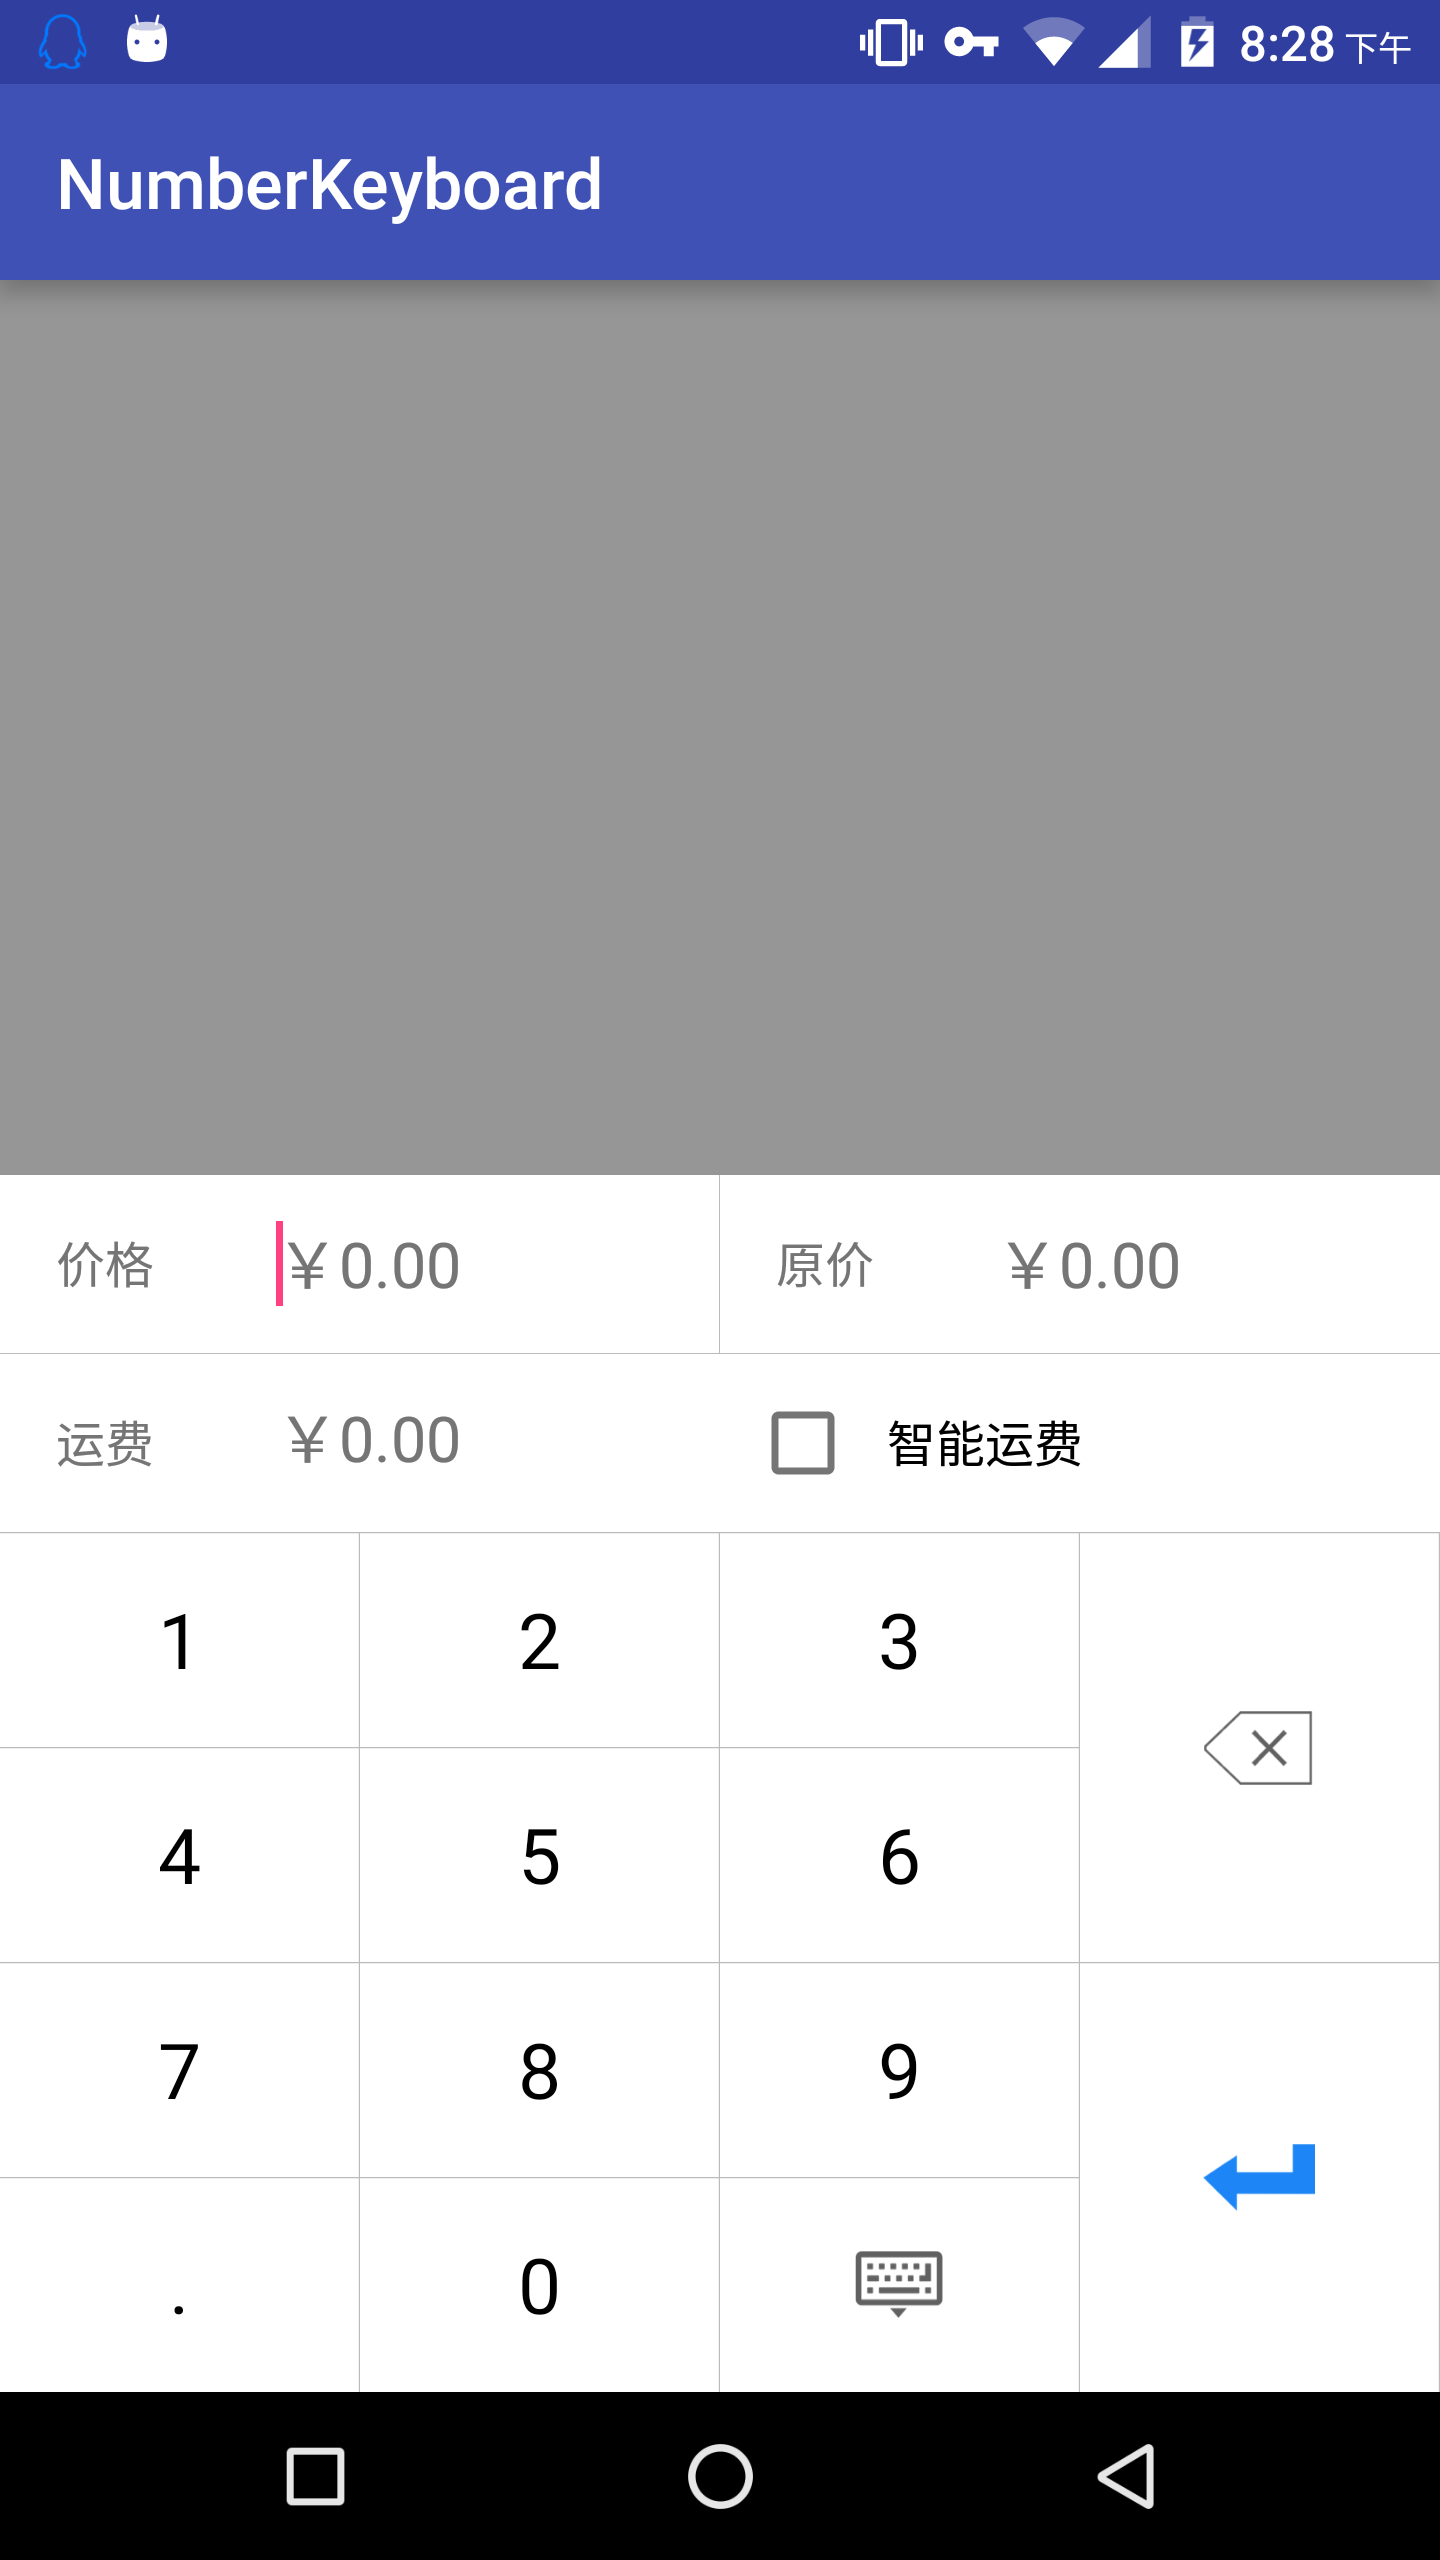
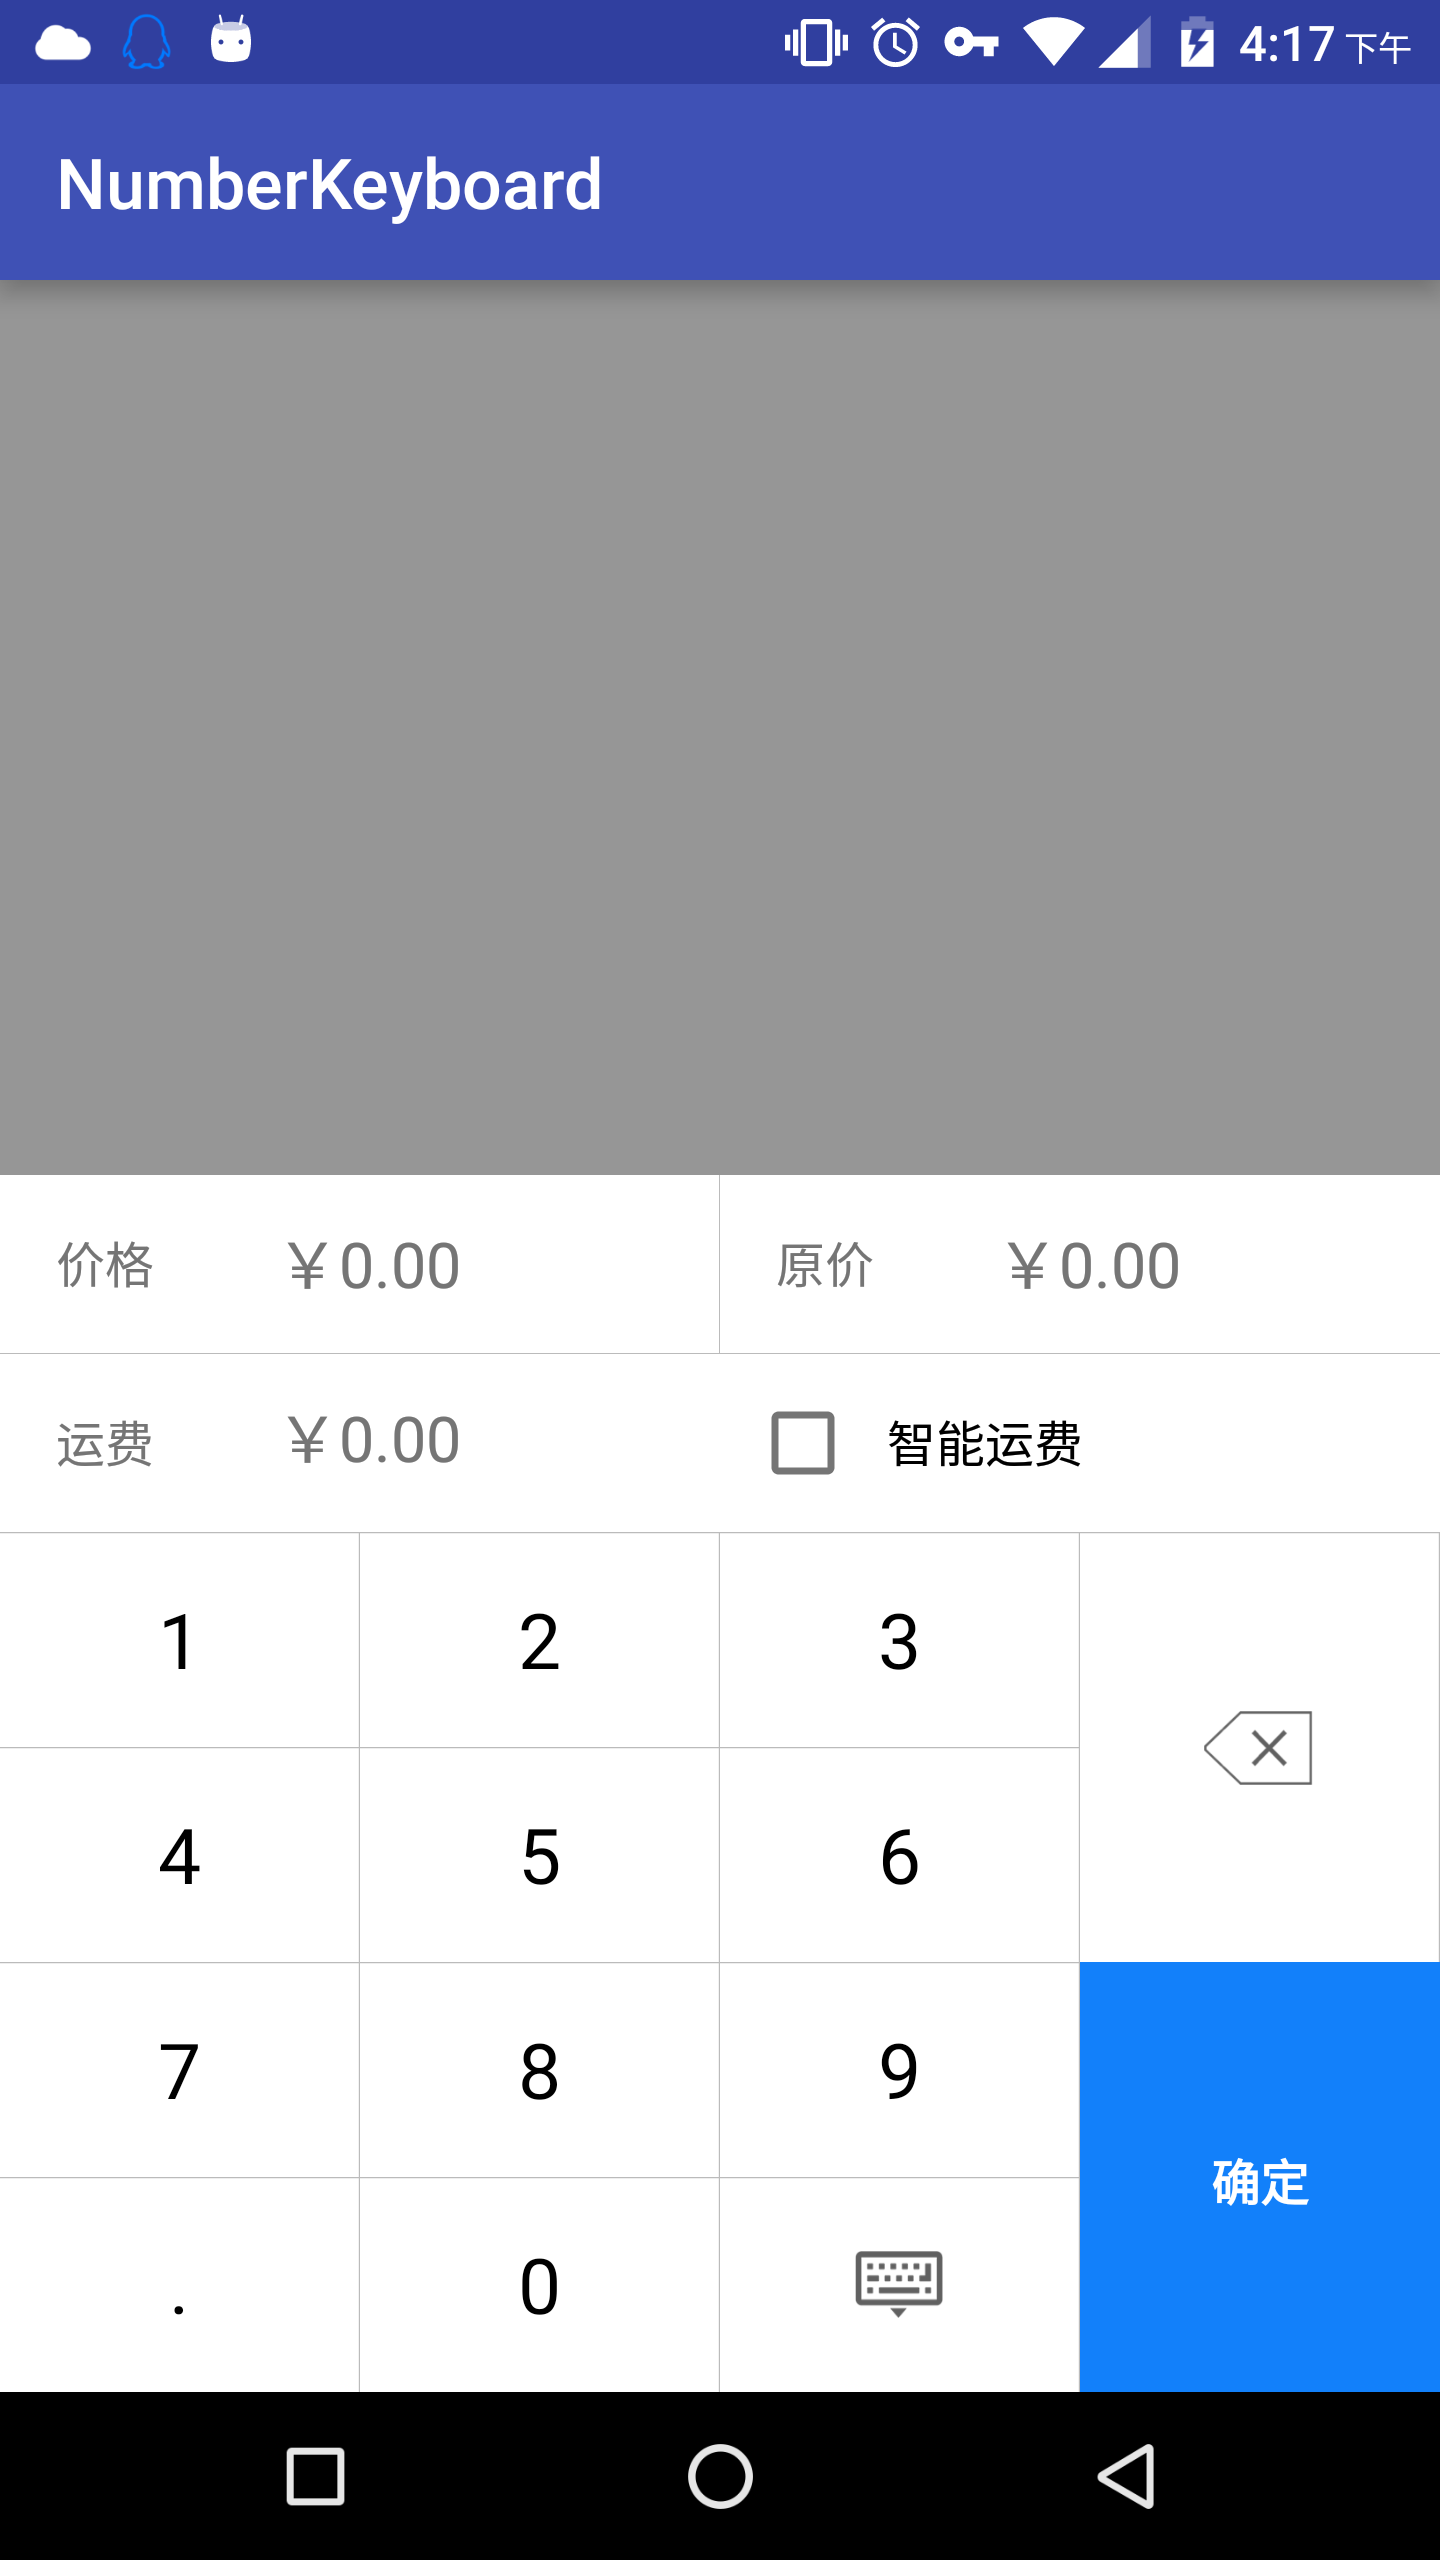
自定义MyKeyBoardView ,实现单独设置确定按钮背景

diff --git a/app/src/main/java/com/xuejinwei/numberkeyboard/numberkeyboard/MyKeyBoardView.java b/app/src/main/java/com/xuejinwei/numberkeyboard/numberkeyboard/MyKeyBoardView.java
@@ -1,0 +1,120 @@
+package com.xuejinwei.numberkeyboard.numberkeyboard;
+
+import android.content.Context;
+import android.graphics.Canvas;
+import android.graphics.Color;
+import android.graphics.Paint;
+import android.graphics.Rect;
+import android.graphics.Typeface;
+import android.graphics.drawable.Drawable;
+import android.inputmethodservice.Keyboard;
+import android.inputmethodservice.Keyboard.Key;
+import android.inputmethodservice.KeyboardView;
+import android.util.AttributeSet;
+
+import java.lang.reflect.Field;
+import java.util.List;
+
+public class MyKeyBoardView extends KeyboardView {
+    private Context  mContext;
+    private Keyboard mKeyBoard;
+
+    public MyKeyBoardView(Context context, AttributeSet attrs) {
+        super(context, attrs);
+        this.mContext = context;
+    }
+
+    public MyKeyBoardView(Context context, AttributeSet attrs, int defStyle) {
+        super(context, attrs, defStyle);
+        this.mContext = context;
+    }
+
+    /**
+     * 重新画一些按键
+     */
+    @Override
+    public void onDraw(Canvas canvas) {
+        super.onDraw(canvas);
+        mKeyBoard = this.getKeyboard();
+        List<Key> keys = null;
+        if (mKeyBoard != null) {
+            keys = mKeyBoard.getKeys();
+        }
+
+        if (keys != null) {
+            for (Key key : keys) {
+                // 数字键盘的处理
+                if (key.codes[0] == -4) {
+                    drawKeyBackground(R.drawable.bg_keyboardview_yes, canvas, key);
+                    drawText(canvas, key);
+                }
+            }
+        }
+    }
+
+    private void drawKeyBackground(int drawableId, Canvas canvas, Key key) {
+        Drawable npd = mContext.getResources().getDrawable(
+                drawableId);
+        int[] drawableState = key.getCurrentDrawableState();
+        if (key.codes[0] != 0) {
+            npd.setState(drawableState);
+        }
+        npd.setBounds(key.x, key.y, key.x + key.width, key.y
+                + key.height);
+        npd.draw(canvas);
+    }
+
+    private void drawText(Canvas canvas, Key key) {
+        Rect bounds = new Rect();
+        Paint paint = new Paint();
+        paint.setTextAlign(Paint.Align.CENTER);
+
+
+        paint.setAntiAlias(true);
+
+        paint.setColor(Color.WHITE);
+        if (key.label != null) {
+            String label = key.label.toString();
+
+            Field field;
+
+            if (label.length() > 1 && key.codes.length < 2) {
+                int labelTextSize = 0;
+                try {
+                    field = KeyboardView.class.getDeclaredField("mLabelTextSize");
+                    field.setAccessible(true);
+                    labelTextSize = (int) field.get(this);
+                } catch (NoSuchFieldException e) {
+                    e.printStackTrace();
+                } catch (IllegalAccessException e) {
+                    e.printStackTrace();
+                }
+                paint.setTextSize(labelTextSize);
+                paint.setTypeface(Typeface.DEFAULT_BOLD);
+            } else {
+                int keyTextSize = 0;
+                try {
+                    field = KeyboardView.class.getDeclaredField("mLabelTextSize");
+                    field.setAccessible(true);
+                    keyTextSize = (int) field.get(this);
+                } catch (NoSuchFieldException e) {
+                    e.printStackTrace();
+                } catch (IllegalAccessException e) {
+                    e.printStackTrace();
+                }
+                paint.setTextSize(keyTextSize);
+                paint.setTypeface(Typeface.DEFAULT);
+            }
+
+            paint.getTextBounds(key.label.toString(), 0, key.label.toString()
+                    .length(), bounds);
+            canvas.drawText(key.label.toString(), key.x + (key.width / 2),
+                    (key.y + key.height / 2) + bounds.height() / 2, paint);
+        } else if (key.icon != null) {
+            key.icon.setBounds(key.x + (key.width - key.icon.getIntrinsicWidth()) / 2, key.y + (key.height - key.icon.getIntrinsicHeight()) / 2,
+                    key.x + (key.width - key.icon.getIntrinsicWidth()) / 2 + key.icon.getIntrinsicWidth(), key.y + (key.height - key.icon.getIntrinsicHeight()) / 2 + key.icon.getIntrinsicHeight());
+            key.icon.draw(canvas);
+        }
+
+    }
+}

diff --git a/app/src/main/java/com/xuejinwei/numberkeyboard/numberkeyboard/XianYuActivity.java b/app/src/main/java/com/xuejinwei/numberkeyboard/numberkeyboard/XianYuActivity.java
@@ -1,6 +1,5 @@
 package com.xuejinwei.numberkeyboard.numberkeyboard;
 
-import android.inputmethodservice.KeyboardView;
 import android.os.Bundle;
 import android.support.v7.app.AppCompatActivity;
 import android.view.MotionEvent;
@@ -19,13 +18,13 @@ import butterknife.ButterKnife;
  */
 public class XianYuActivity extends AppCompatActivity {
 
-    @Bind(R.id.tv_price)       TextView     tv_price;
-    @Bind(R.id.ll_price)         LinearLayout ll_price;
-    @Bind(R.id.et_price)         EditText     et_price;
-    @Bind(R.id.et_orginal_price) EditText     et_orginal_price;
-    @Bind(R.id.et_freight)       EditText     et_freight;
-    @Bind(R.id.keyboard_view)    KeyboardView keyboard_view;
-    @Bind(R.id.ll_price_select)  LinearLayout ll_price_select;
+    @Bind(R.id.tv_price)         TextView       tv_price;
+    @Bind(R.id.ll_price)         LinearLayout   ll_price;
+    @Bind(R.id.et_price)         EditText       et_price;
+    @Bind(R.id.et_orginal_price) EditText       et_orginal_price;
+    @Bind(R.id.et_freight)       EditText       et_freight;
+    @Bind(R.id.keyboard_view)    MyKeyBoardView keyboard_view;
+    @Bind(R.id.ll_price_select)  LinearLayout   ll_price_select;
 
     @Override
     protected void onCreate(Bundle savedInstanceState) {

diff --git a/app/src/main/java/com/xuejinwei/numberkeyboard/numberkeyboard/KeyboardUtil.java b/app/src/main/java/com/xuejinwei/numberkeyboard/numberkeyboard/KeyboardUtil.java
@@ -25,9 +25,9 @@ public class KeyboardUtil {
     private Activity mActivity;
     private boolean  mIfRandom;
 
-    private KeyboardView mKeyboardView;
-    private Keyboard     mKeyboardNumber;//数字键盘
-    private EditText     mEditText;
+    private MyKeyBoardView mKeyboardView;
+    private Keyboard       mKeyboardNumber;//数字键盘
+    private EditText       mEditText;
 
     public KeyboardUtil(Activity activity) {
         this(activity, false);
@@ -37,7 +37,7 @@ public class KeyboardUtil {
         this.mActivity = activity;
         this.mIfRandom = ifRandom;
         mKeyboardNumber = new Keyboard(mActivity, R.xml.keyboardnumber);
-        mKeyboardView = (KeyboardView) mActivity.findViewById(R.id.keyboard_view);
+        mKeyboardView = (MyKeyBoardView) mActivity.findViewById(R.id.keyboard_view);
     }
 
     /**
@@ -56,7 +56,7 @@ public class KeyboardUtil {
             mKeyboardNumber = new Keyboard(mActivity, R.xml.keyboardnumber);
         }
         if (mKeyboardView == null) {
-            mKeyboardView = (KeyboardView) mActivity.findViewById(R.id.keyboard_view);
+            mKeyboardView = (MyKeyBoardView) mActivity.findViewById(R.id.keyboard_view);
         }
         if (mIfRandom) {
             randomKeyboardNumber();

diff --git a/README.md b/README.md
@@ -1,5 +1,9 @@
 #自定义Android数字键盘Demo
 
+###update: 
+1. 增加数字键盘位置随机
+2. 自定义MyKeyBoardView,实现单独设置确定按钮背景
+
 ##仿造android端闲鱼发布商品时候选择价格 弹出的数字键盘。
 
 
@@ -27,5 +31,4 @@
 
 使用的android系统的api，keyboardview和keyboard，
 
-本来想把确定按钮也按闲鱼一样改成蓝色的，无奈stackoverflow逛了一圈也没有找到有效的方法。
 
